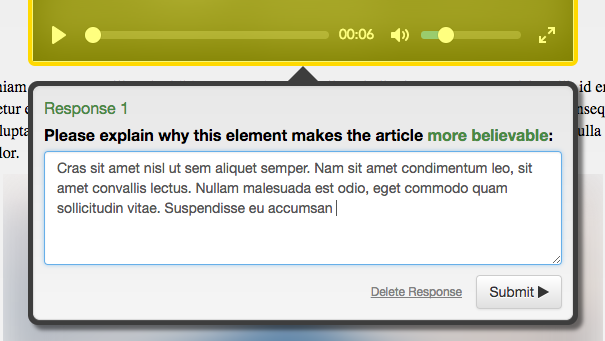
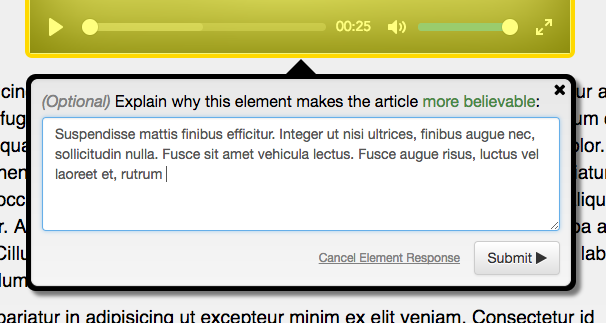
update demo2 to reflect new inline narrative response

diff --git a/public/js/controller/articlesController.js b/public/js/controller/articlesController.js
@@ -292,10 +292,6 @@ angular.module('pyrite')
                 //for storage in database
                 $scope.selectedID = selected.id;
 
-                if ($scope.demo2 && $scope.demoStep == 2 && $scope.selectedID == 'video_demo2') {
-                    document.querySelector("#hint2").setAttribute('style', 'opacity:1;right:50px;');
-                }
-
                 //set dimensions and position of highlight box
                 $scope.setHighlightStyling(rect);
 
@@ -314,15 +310,13 @@ angular.module('pyrite')
             $scope.hideSpontaneousResponse = function() {
                 $scope.showNarrativeResponse = false;
                 $scope.showSpontaneousResponse = false;
+                if ($scope.demo2 && $scope.demoStep == 2 && $scope.selectedID == 'video_demo2') {
+                    document.querySelector("#hint2").setAttribute('style', 'opacity:1;right:50px;');
+                }
             }
 
             //submit a "spontaneous response" to an article element
             $scope.submitSpontaneousResponse = function(val) {
-                if ($scope.demo) {
-                    $scope.hideSpontaneousResponse();
-                    return; //neuter if in demo
-                }
-
                 //increment counters
                 $scope.SRCount++;
                 if (val == 'more-believable') {
@@ -330,6 +324,12 @@ angular.module('pyrite')
                     $scope.moreBelievable = true;
                 } else {
                     $scope.moreBelievable = false;
+                }
+
+                //skip from here, because moreBelievable needs to be set
+                if ($scope.demo) {
+                    $scope.showNarrativeResponse = true;
+                    return; //neuter if in demo
                 }
 
                 //construct spontaneousResponse object
@@ -350,6 +350,11 @@ angular.module('pyrite')
             }
 
             $scope.submitNarrativeResponse = function(response) {
+                if ($scope.demo) {
+                    $scope.hideSpontaneousResponse();
+                    return; //neuter if in demo
+                }
+
                 if (response == undefined) {
                     $scope.hideSpontaneousResponse();
                     return;

diff --git a/public/css/articles.css b/public/css/articles.css
@@ -237,6 +237,9 @@ span#optional {
     border: 8px solid rgb(255, 217, 0);
     border-radius: 7px;
 }
+#step2-1 img {
+    margin: 15px;
+}
 #step2-2, #step2-3 {
     overflow: visible !important;
 }
